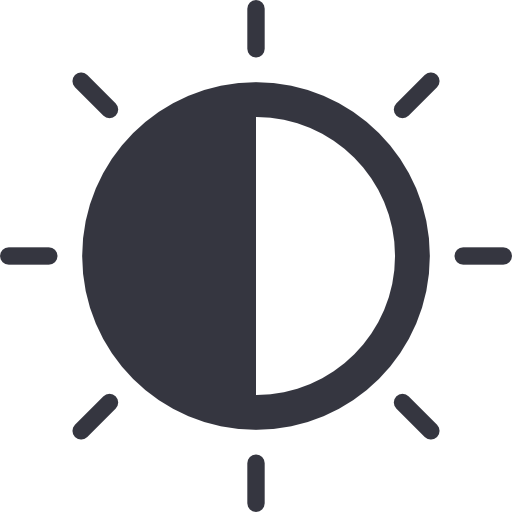
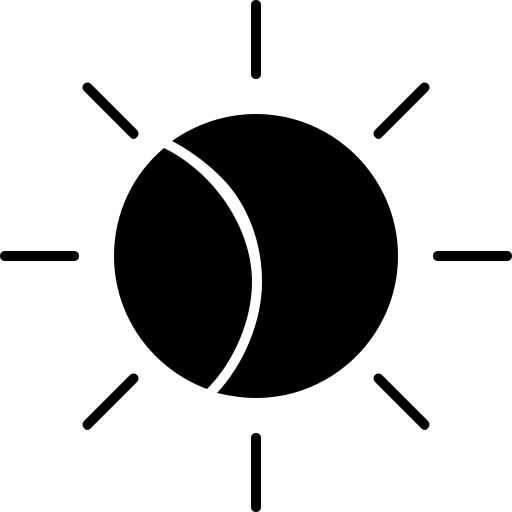
switch dark and light mode operation

diff --git a/src/components/LightMode.jsx b/src/components/LightMode.jsx
@@ -1,8 +1,42 @@
 'use client'
 import icon from '@/assets/pics/lightDark.png'
 import Image from 'next/image'
+import { useCallback, useEffect } from 'react';
 
 function LightMode() {
+
+    const changeDark = (isDark) => {
+        const mode = isDark ? "dark" : "light";
+        localStorage.setItem('lightMode', mode);
+        if(isDark) {
+            document.body.classList.add('darkMode');
+        }
+        else {
+            document.body.classList.remove('darkMode');
+        }
+    }
+
+    const checkLight = useCallback(() => {
+        const mode = localStorage.getItem('lightMode');
+        if(!mode) {
+            changeDark(false);
+        }
+        else {
+            if(mode === 'dark') {
+                changeDark(false);
+            }
+            else {
+                changeDark(true);
+            }
+        }
+    }, [])
+
+    useEffect(() => {
+        const mode = localStorage.getItem('lightMode');
+        if(mode === 'dark') changeDark(true)
+    }, [])
+    
+    
     return (
         <Image  
             src={icon.src}
@@ -10,6 +44,7 @@ function LightMode() {
             width={25}
             height={25}
             className='cursor-pointer'
+            onClick={checkLight}
         />
     )
 }
